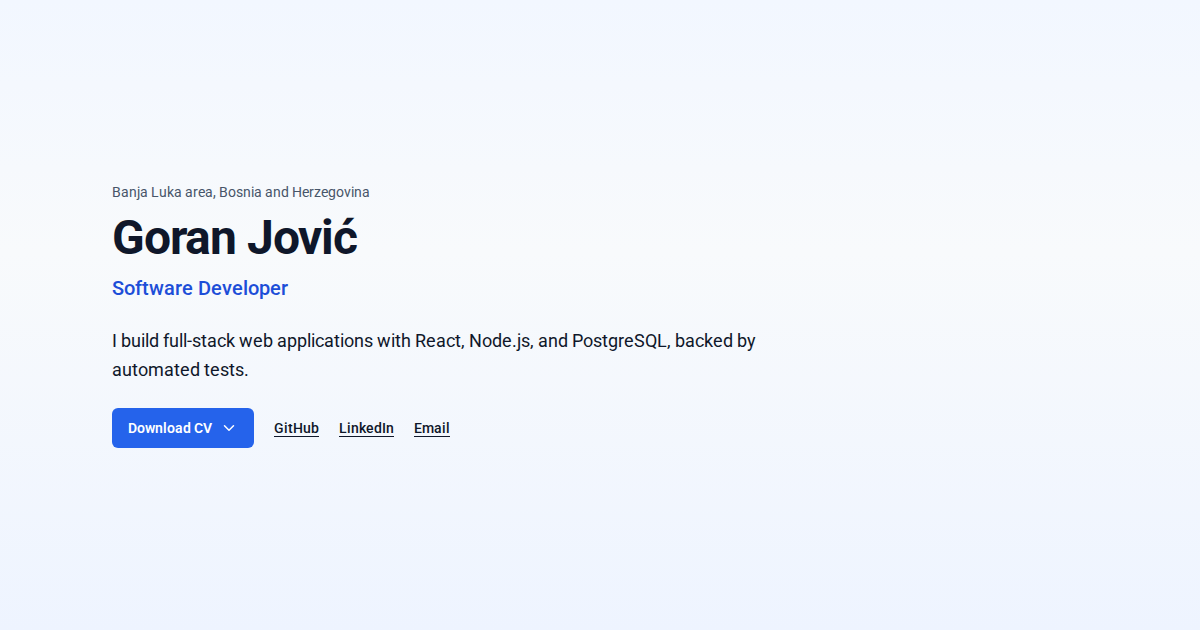
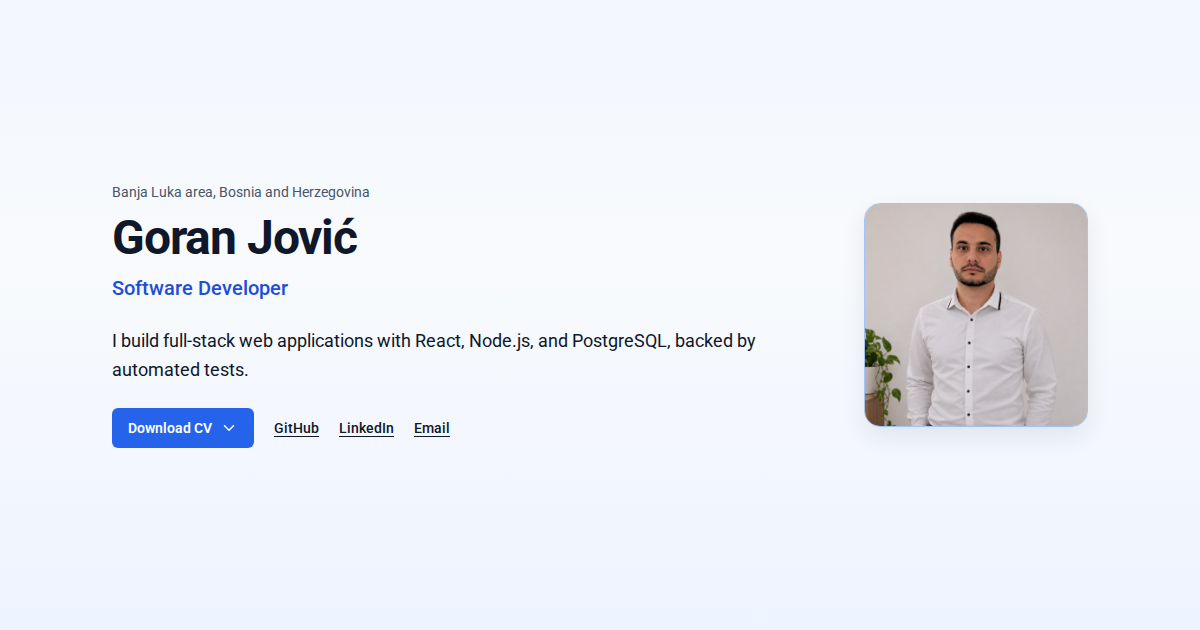
feat: add portrait to portfolio hero

Changed region(s): [[0.7092, 0.3016, 0.925, 0.6937]]

diff --git a/src/components/Hero.tsx b/src/components/Hero.tsx
@@ -7,24 +7,35 @@ function Hero() {
   const { t } = useLanguage();
 
   return (
-    <div className="flex flex-col items-start gap-6 py-14 sm:py-20">
-      <div className="flex flex-col gap-3">
-        <p className="text-sm text-(--text-muted)">{t("hero.location")}</p>
-        <h1 className="text-4xl font-bold tracking-tight sm:text-5xl">
-          Goran Jović
-        </h1>
-        <p className="text-xl font-medium text-(--accent-text)">
-          {t("hero.title")}
-        </p>
-      </div>
-      <p className="max-w-2xl text-lg leading-relaxed">{t("hero.pitch")}</p>
-      <div className="flex flex-wrap items-center gap-x-5 gap-y-4 text-sm font-medium">
-        <CvDownload />
-        <ExternalLink href={CONTACT_LINKS.github}>GitHub</ExternalLink>
-        <ExternalLink href={CONTACT_LINKS.linkedin}>LinkedIn</ExternalLink>
-        <ExternalLink href={CONTACT_LINKS.email} newTab={false}>
-          {t("links.email")}
-        </ExternalLink>
+    <div className="grid items-center gap-8 py-14 sm:py-20 md:grid-cols-[minmax(0,1fr)_auto] md:gap-12">
+      <img
+        src="/images/CV_photo.png"
+        alt="Goran Jović"
+        width={512}
+        height={512}
+        fetchPriority="high"
+        decoding="async"
+        className="w-40 rounded-2xl border border-(--border-color) shadow-(--card-shadow-soft) sm:w-48 md:order-last md:w-56"
+      />
+      <div className="flex min-w-0 flex-col items-start gap-6">
+        <div className="flex flex-col gap-3">
+          <p className="text-sm text-(--text-muted)">{t("hero.location")}</p>
+          <h1 className="text-4xl font-bold tracking-tight sm:text-5xl">
+            Goran Jović
+          </h1>
+          <p className="text-xl font-medium text-(--accent-text)">
+            {t("hero.title")}
+          </p>
+        </div>
+        <p className="max-w-2xl text-lg leading-relaxed">{t("hero.pitch")}</p>
+        <div className="flex flex-wrap items-center gap-x-5 gap-y-4 text-sm font-medium">
+          <CvDownload />
+          <ExternalLink href={CONTACT_LINKS.github}>GitHub</ExternalLink>
+          <ExternalLink href={CONTACT_LINKS.linkedin}>LinkedIn</ExternalLink>
+          <ExternalLink href={CONTACT_LINKS.email} newTab={false}>
+            {t("links.email")}
+          </ExternalLink>
+        </div>
       </div>
     </div>
   );
